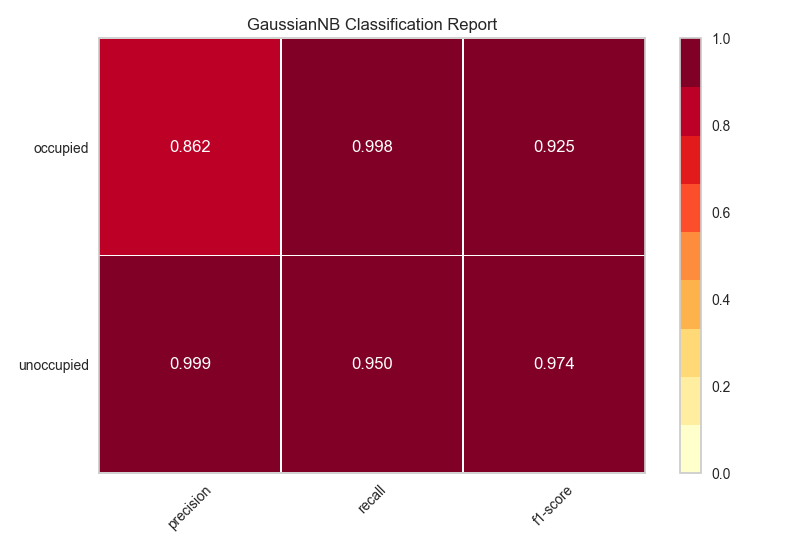
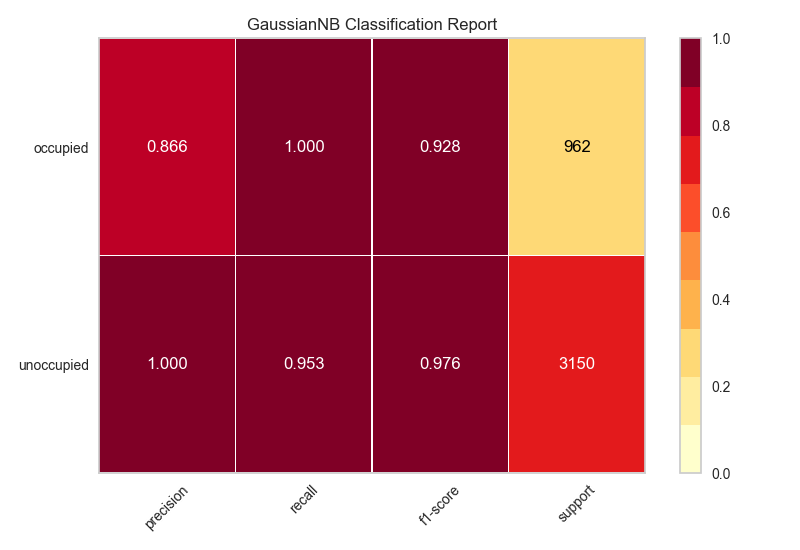
Docs: If applied, this commit will include documentation about the support metric in the classification reports.
This commit will include documentation about the support metric to reflect the fact that the support metric is now supported for the classification report. Prior to this change, the documentation stated that the support metric is not included int he report.

Now, the documentation includes information about the support metric.

Resolves: Issue #359

diff --git a/yellowbrick/classifier/classification_report.py b/yellowbrick/classifier/classification_report.py
@@ -41,7 +41,7 @@ SCORES_KEYS = ('precision', 'recall', 'f1', 'support')
 
 class ClassificationReport(ClassificationScoreVisualizer):
     """
-    Classification report that shows the precision, recall, and F1 scores
+    Classification report that shows the precision, recall, F1, and support scores
     for the model. Integrates numerical scores as well as a color-coded heatmap.
 
     Parameters
@@ -74,7 +74,7 @@ class ClassificationReport(ClassificationScoreVisualizer):
     Attributes
     ----------
     scores_ : dict of dicts
-        Outer dictionary composed of precision, recall, and f1 scores with
+        Outer dictionary composed of precision, recall, f1, and support scores with
         inner dictionaries specifiying the values for each class listed.
     """
     def __init__(self, model, ax=None, classes=None, cmap='YlOrRd', **kwargs):
@@ -199,8 +199,8 @@ class ClassificationReport(ClassificationScoreVisualizer):
 def classification_report(model, X, y=None, ax=None, classes=None, **kwargs):
     """Quick method:
 
-    Displays precision, recall, and F1 scores for the model.
-    Integrates numerical scores as well color-coded heatmap.
+    Displays precision, recall, F1, and support scores for the model.
+    Integrates numerical scores as well as color-coded heatmap.
 
     This helper function is a quick wrapper to utilize the ClassificationReport
     ScoreVisualizer for one-off analysis.

diff --git a/docs/api/classifier/classification_report.rst b/docs/api/classifier/classification_report.rst
@@ -3,7 +3,7 @@
 Classification Report
 =====================
 
-The classification report visualizer displays the precision, recall, and F1 scores for the model. In order to support easier interpretation and problem detection, the report integrates numerical scores with a color-coded heatmap. All heatmaps are in the range ``(0.0, 1.0)`` to facilitate easy comparison of classification models across different classification reports.
+The classification report visualizer displays the precision, recall, F1, and support scores for the model. In order to support easier interpretation and problem detection, the report integrates numerical scores with a color-coded heatmap. All heatmaps are in the range ``(0.0, 1.0)`` to facilitate easy comparison of classification models across different classification reports.
 
 .. code:: python
 
@@ -56,8 +56,9 @@ The metrics are defined in terms of true and false positives, and true and false
 **f1 score**
     The F\ :sub:`1` score is a weighted harmonic mean of precision and recall such that the best score is 1.0 and the worst is 0.0. Generally speaking, F\ :sub:`1` scores are lower than accuracy measures as they embed precision and recall into their computation. As a rule of thumb, the weighted average of F\ :sub:`1` should be used to compare classifier models, not global accuracy.
 
-.. caution::
-    Support is omitted from the classification metrics because it is difficult to scale this on a heatmap. In a future release we will add a support feature that describes the support as the percentage of the total number of instances.
+
+**support**
+    Support is the number of occurrences of the true response in a given class. 
 
 
 API Reference
